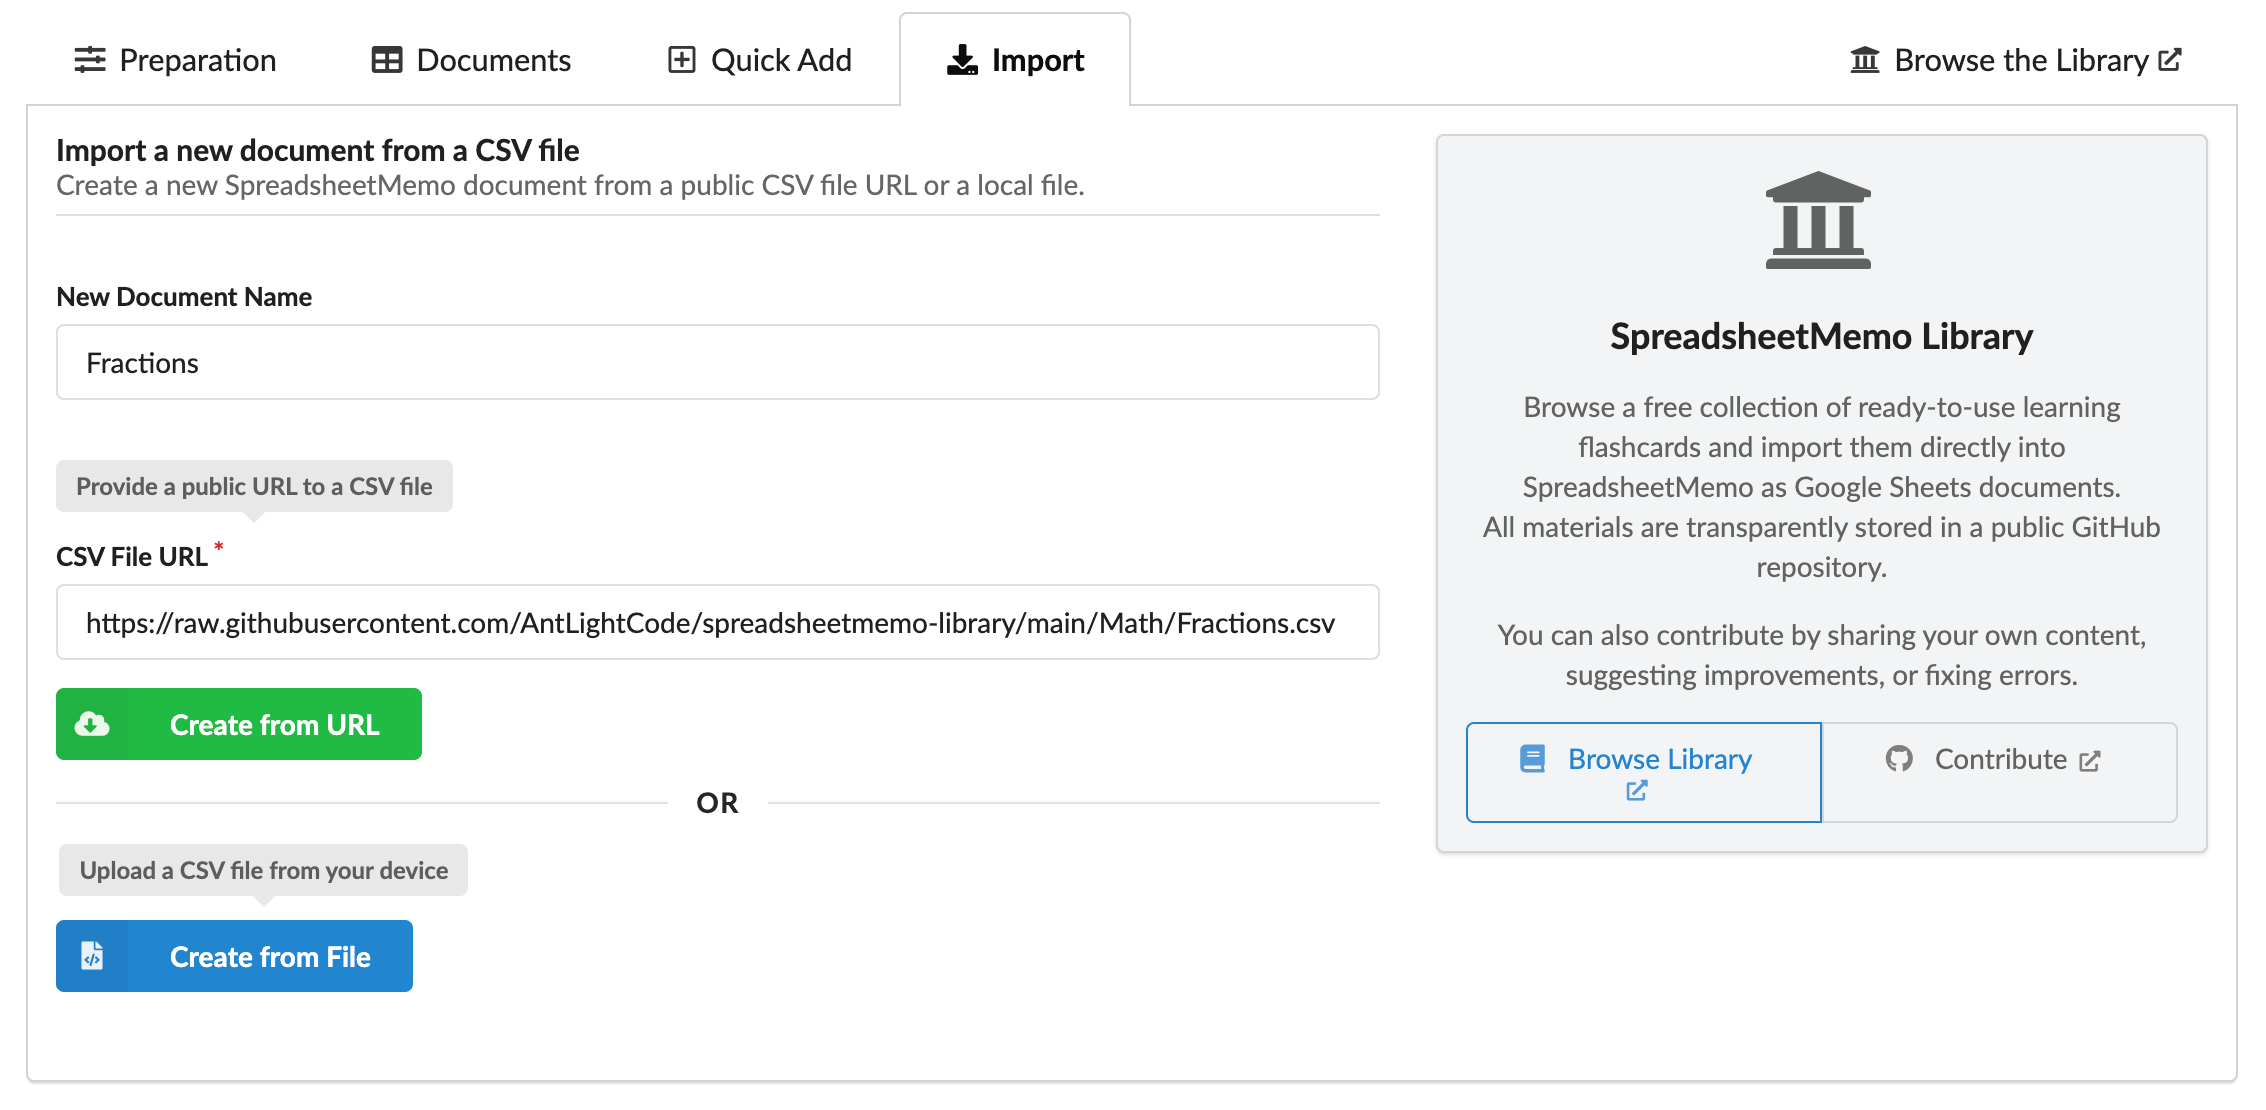
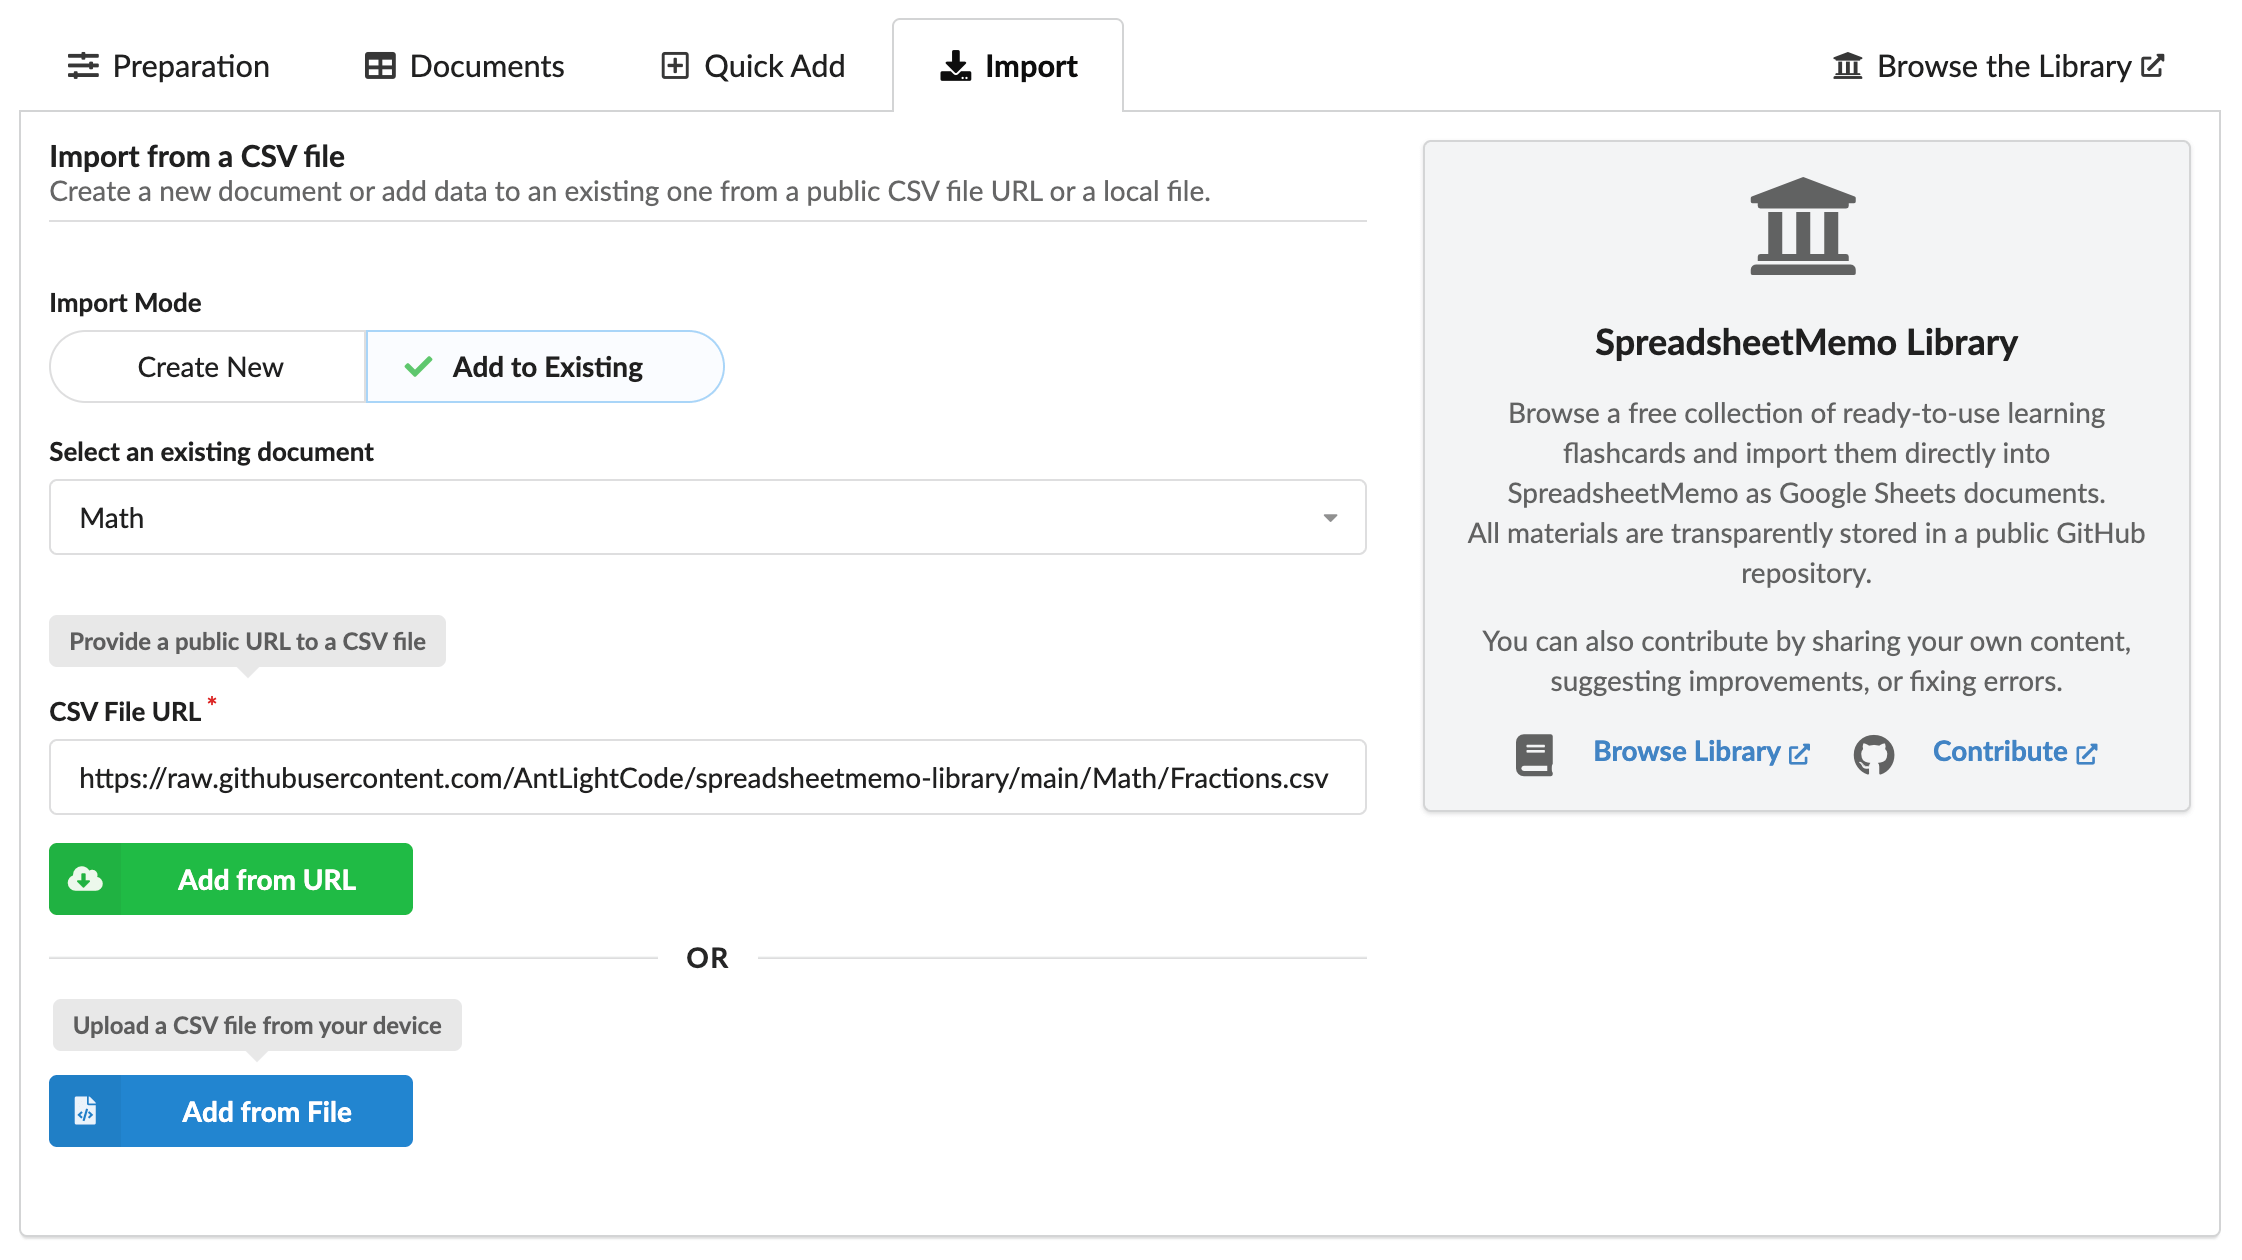
Easy CSV import into the existing document

diff --git a/index.html b/index.html
@@ -134,7 +134,7 @@
                     </div>
                     <div class="feature-card-content">
                         <h3><i class="fa-solid fa-download"></i>Easy Data Import</h3>
-                        <p>Get started quickly by importing data. You can use <strong>CSV files</strong> from your computer or a <strong>URL</strong> to instantly create new, fully-featured <strong>Google Sheets</strong> documents.</br>Don't forget to check out the <a href="library.html"><i class="fa-solid fa-building-columns"></i> Open Flashcard Library</a> for ready-to-use sets.</p>
+                        <p>Quickly import data from <strong>CSV files</strong> on your computer or via a <strong>URL</strong>. You can create a brand new <strong>Google Sheets</strong> document or add the data to an existing one, making it easy to expand your learning sets.</br>Don't forget to check out the <a href="library.html"><i class="fa-solid fa-building-columns"></i> Open Flashcard Library</a> for ready-to-use sets.</p>
                     </div>
                 </div>
                 <div class="feature-card">

diff --git a/README.md b/README.md
@@ -26,7 +26,8 @@ Use it for your studies, as a preparation tool, to check your knowledge before a
 - 📱 **Mobile-Friendly** - Use on any device, anywhere
 - ⚡ **Fast & Responsive** - Clean interface with no unnecessary page loads
 - 📂 **Multiple Documents** - Organize your content with documents, sheets, and Named Ranges
-- 🎨 **Rich Content Support** - Add links, images, Wiki Markup, and mathematical equations (TeX/AsciiMath)
+- 🎨 **Rich Content Support** - Add links, images, Wiki Markup, Youtube videos and mathematical equations (TeX/AsciiMath)
+- 📥 **Easy Data Import** - Quickly import data from CSV files (from your computer or a URL). Create new documents or add data to existing ones.
 - 🔒 **Secure & Private** - Your documents belong only to you
 - 🆓 **Completely Free** - No ads, no hidden costs
 
